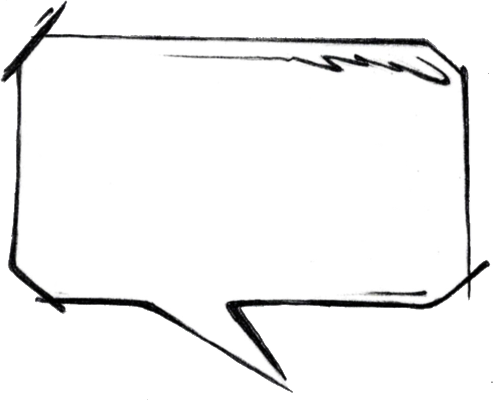
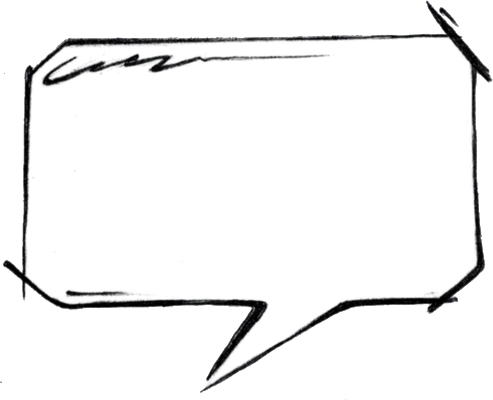
GameFairy can appear on left or right side with correct speech bubble

Changed region(s): [[0.0, 0.0, 1.0, 0.99]]

diff --git a/client/src/fairylayer.js b/client/src/fairylayer.js
@@ -5,8 +5,8 @@
 
 // GameFairyLayer Constants
 //
-var _B_FAIRY_LEFT = 0,
-	_B_FAIRY_RIGHT = 1;
+var _B_FAIRY_LEFT = 1,
+	_B_FAIRY_RIGHT = -1;
 
 // FairyLayer is the base class for all fairies
 //
@@ -52,7 +52,8 @@ var FairyLayer = cc.Layer.extend({
 	show: function() {
 	
 		var self = this,
-			g = this._gestures[this._currentGesture];
+			cg = this._currentGesture;
+			g = this._gestures[cg];
 		
         //////////////////////////////
         // Start event handling
@@ -60,8 +61,9 @@ var FairyLayer = cc.Layer.extend({
 
         //////////////////////////////
         // Create fairy and set her to position 1
-		var fairy = this._fairy = cc.Sprite.create(cc.spriteFrameCache.getSpriteFrame(this._fairyName));
+		var fairy = this._fairy = cc.Sprite.create(cc.spriteFrameCache.getSpriteFrame(g.sprite));
 		fairy.setPosition(cc.p(g.x,g.y));
+		fairy.setScale(g.orientation,1);
 
 		this.addChild(fairy,0);
 		_b_retain(this._fairy,"FairyLayer, show, _fairy");
@@ -83,7 +85,7 @@ var FairyLayer = cc.Layer.extend({
 		var self = this,
 			g = this._gestures[this._currentGesture];
 		
-		var bubble = new SpeechBubble(time, text, g.bubble, cb);
+		var bubble = new SpeechBubble(time, text, g, cb);
 
 		this._fairy.addChild(bubble,10);
 	},
@@ -139,7 +141,7 @@ var SpeechBubble = cc.Sprite.extend({
 			ay: 0.0,
 			padding: {
 				top: 0,
-				left: 30,
+				left: 50,
 				right: 30,
 				bottom: 60
 			},
@@ -161,29 +163,31 @@ var SpeechBubble = cc.Sprite.extend({
 
 	// ctor calls the parent class with appropriate parameter
 	//
-    ctor: function(time, text, bubble, cb) {
-    	var self = this;
+    ctor: function(time, text, gesture, cb) {
+    	var self = this,
+    		gb = gesture.bubble,			// gb is how the gesture would like to have the bubble (variables)
+    		bb = this._bubbles[gb.type];	// bb is how the bubble itself is defined (constants)
     
     	cc.assert(cb && typeof cb === "function", "I need a callback function.");
     
-    	var b = this._bubbles[bubble.type];
         cc.Sprite.prototype.ctor.call(this);
-        this.initWithSpriteFrame(cc.spriteFrameCache.getSpriteFrame(b.sprite));
+        this.initWithSpriteFrame(cc.spriteFrameCache.getSpriteFrame(bb.sprite));
 
         this._finalCallback = cb;
-        this.setAnchorPoint(b.ax, b.ay);
-        this.setPosition(cc.p(bubble.x, bubble.y));
+        this.setAnchorPoint(bb.ax, bb.ay);
+        this.setPosition(cc.p(gb.x, gb.y));
         this.setCascadeOpacityEnabled(true);
         
-        var text = cc.LabelTTF.create(text, "IndieFlower", bubble.fontsize, cc.size(bubble.width-b.padding.left-b.padding.right,0),cc.TEXT_ALIGNMENT_LEFT, cc.VERTICAL_TEXT_ALIGNMENT_TOP);
-        text.setColor(b.color);
-        text.setPosition(cc.p(this.width/2,this.height/2+(b.padding.bottom-b.padding.top)/2));
+        var text = cc.LabelTTF.create(text, "IndieFlower", gb.fontsize, cc.size(gb.width-bb.padding.left-bb.padding.right,0),cc.TEXT_ALIGNMENT_LEFT, cc.VERTICAL_TEXT_ALIGNMENT_TOP);
+        text.setColor(bb.color);
+        text.setPosition(cc.p(this.width/2,this.height/2+(bb.padding.bottom-bb.padding.top)/2));
+        text.setScale(gesture.orientation, 1);
         var size = text.getContentSize();
 
 		this.addChild(text);
 
-        var scaleX = bubble.width && bubble.width/this.width || 1;
-        var scaleY = bubble.height && (bubble.height+text.getContentSize().height/2)/this.height || 1;
+        var scaleX = gb.width && gb.width/this.width || 1;
+        var scaleY = gb.height && (gb.height+text.getContentSize().height/2)/this.height || 1;
         this.setScale(scaleX,scaleY);
         
 		this.appear();
@@ -229,15 +233,16 @@ var GameFairy = FairyLayer.extend({
 	// ctor 
 	//
     ctor: function() {
-        this._super("sphinx",[{
-        	x: 970,
+        this._super("gamefairy",[{
+        	sprite: "gamefairy1",
+        	x: 120,
         	y: 160,
-        	width: 383,
+        	width: 251,
         	height: 320,
         	orientation: _B_FAIRY_LEFT,
         	bubble: {
         		type: "angry",
-        		x: 100,
+        		x: 340,
         		y: 280,
         		width: 500,
         		height: 200,

diff --git a/client/src/games/wordbattle/src/wordbattle.js b/client/src/games/wordbattle/src/wordbattle.js
@@ -105,16 +105,16 @@ var WordBattleLayer = cc.Layer.extend({
 		}
         s1.addChild(drawNode,20);*/
         
-/*		var fairy = new GameFairy();
+		var fairy = new GameFairy();
         this.addChild(fairy,10);
         fairy.show();
         setTimeout(function() {
 			fairy.say(2.5, "Bewege und drehe die Schiffe!", function(result) {
-				fairy.say(10.5, "Drück mich, wenn du fertig bist.", function(result) {
+				fairy.say(100.5, "Drück mich, wenn du fertig bist.", function(result) {
 					debugger;
 				});				
 			});
-		}, 2500);*/
+		}, 2500);
         
 		this.initListeners();
         return true;
@@ -196,6 +196,7 @@ var WordBattleLayer = cc.Layer.extend({
 			var pos = ship.findPosition({col:Math.floor(Math.random()*_B_MAX_SHIP_LENGTH),row:Math.floor(Math.random()*_B_MAX_SHIP_LENGTH)},rotation);
 			if( !pos ) {
 				for( j=0 ; j<r.length ; j++ ) {
+					cc.log("Didn't find room for the ship. Setting all ships strait...");
 					if( j>i ) {
 						word = this._pureWords[r[j]];
 						if( word.length > _B_MAX_SHIP_LENGTH ) continue; // don't take words that don't fit ...
@@ -210,6 +211,7 @@ var WordBattleLayer = cc.Layer.extend({
 				}
 				break;
 			}
+			cc.log("Placing ship at "+JSON.stringify(pos));
 			ship.setRCPosition(pos);
 			ship.setRotation(rotation);
 		}
@@ -490,7 +492,12 @@ var Battleship = cc.Node.extend({
     findPosition: function(pos, rotation, collisionBase) {
     	var wl = this._word.length;
 
-		if( pos === undefined ) pos = this._pos;		
+		if( pos === undefined ) {
+			pos = {
+				x: this._pos.x,
+				y: this._pos.y
+			};	
+		}	
 		if( rotation === undefined ) rotation = this._rotation;
 
 		// moving the ship into the sea		

diff --git a/client/src/app.js b/client/src/app.js
@@ -124,11 +124,11 @@ var BeesScene = cc.Scene.extend({
         cc.width = cc.winSize.width;
         cc.height = cc.winSize.height;	
         
-/*        cc.log("Loading word battle scene ...");
+        cc.log("Loading word battle scene ...");
         cc.LoaderScene.preload(_b_getResources("wordbattle","Das Eselein"), function () {
 	        cc.log("Running word battle scene ...");
 			cc.director.runScene(new WordBattleScene("Das Eselein"));
-		}, this);	*/
+		}, this);
     },
     
     onExit: function() {

diff --git a/client/src/listviewlayer.js b/client/src/listviewlayer.js
@@ -246,7 +246,10 @@ var SelectPlayerLayer = cc.Layer.extend({
     		this._BarLabel.setString(_b_t.playerlist.noplayers);
     		return
     	} else {
-    		this._BarLabel.setString(_b_t.playerlist.choose);
+    		this._BarLabel.set
+    		
+    		
+    		String(_b_t.playerlist.choose);
     	}
     	
     	// build up the players list
